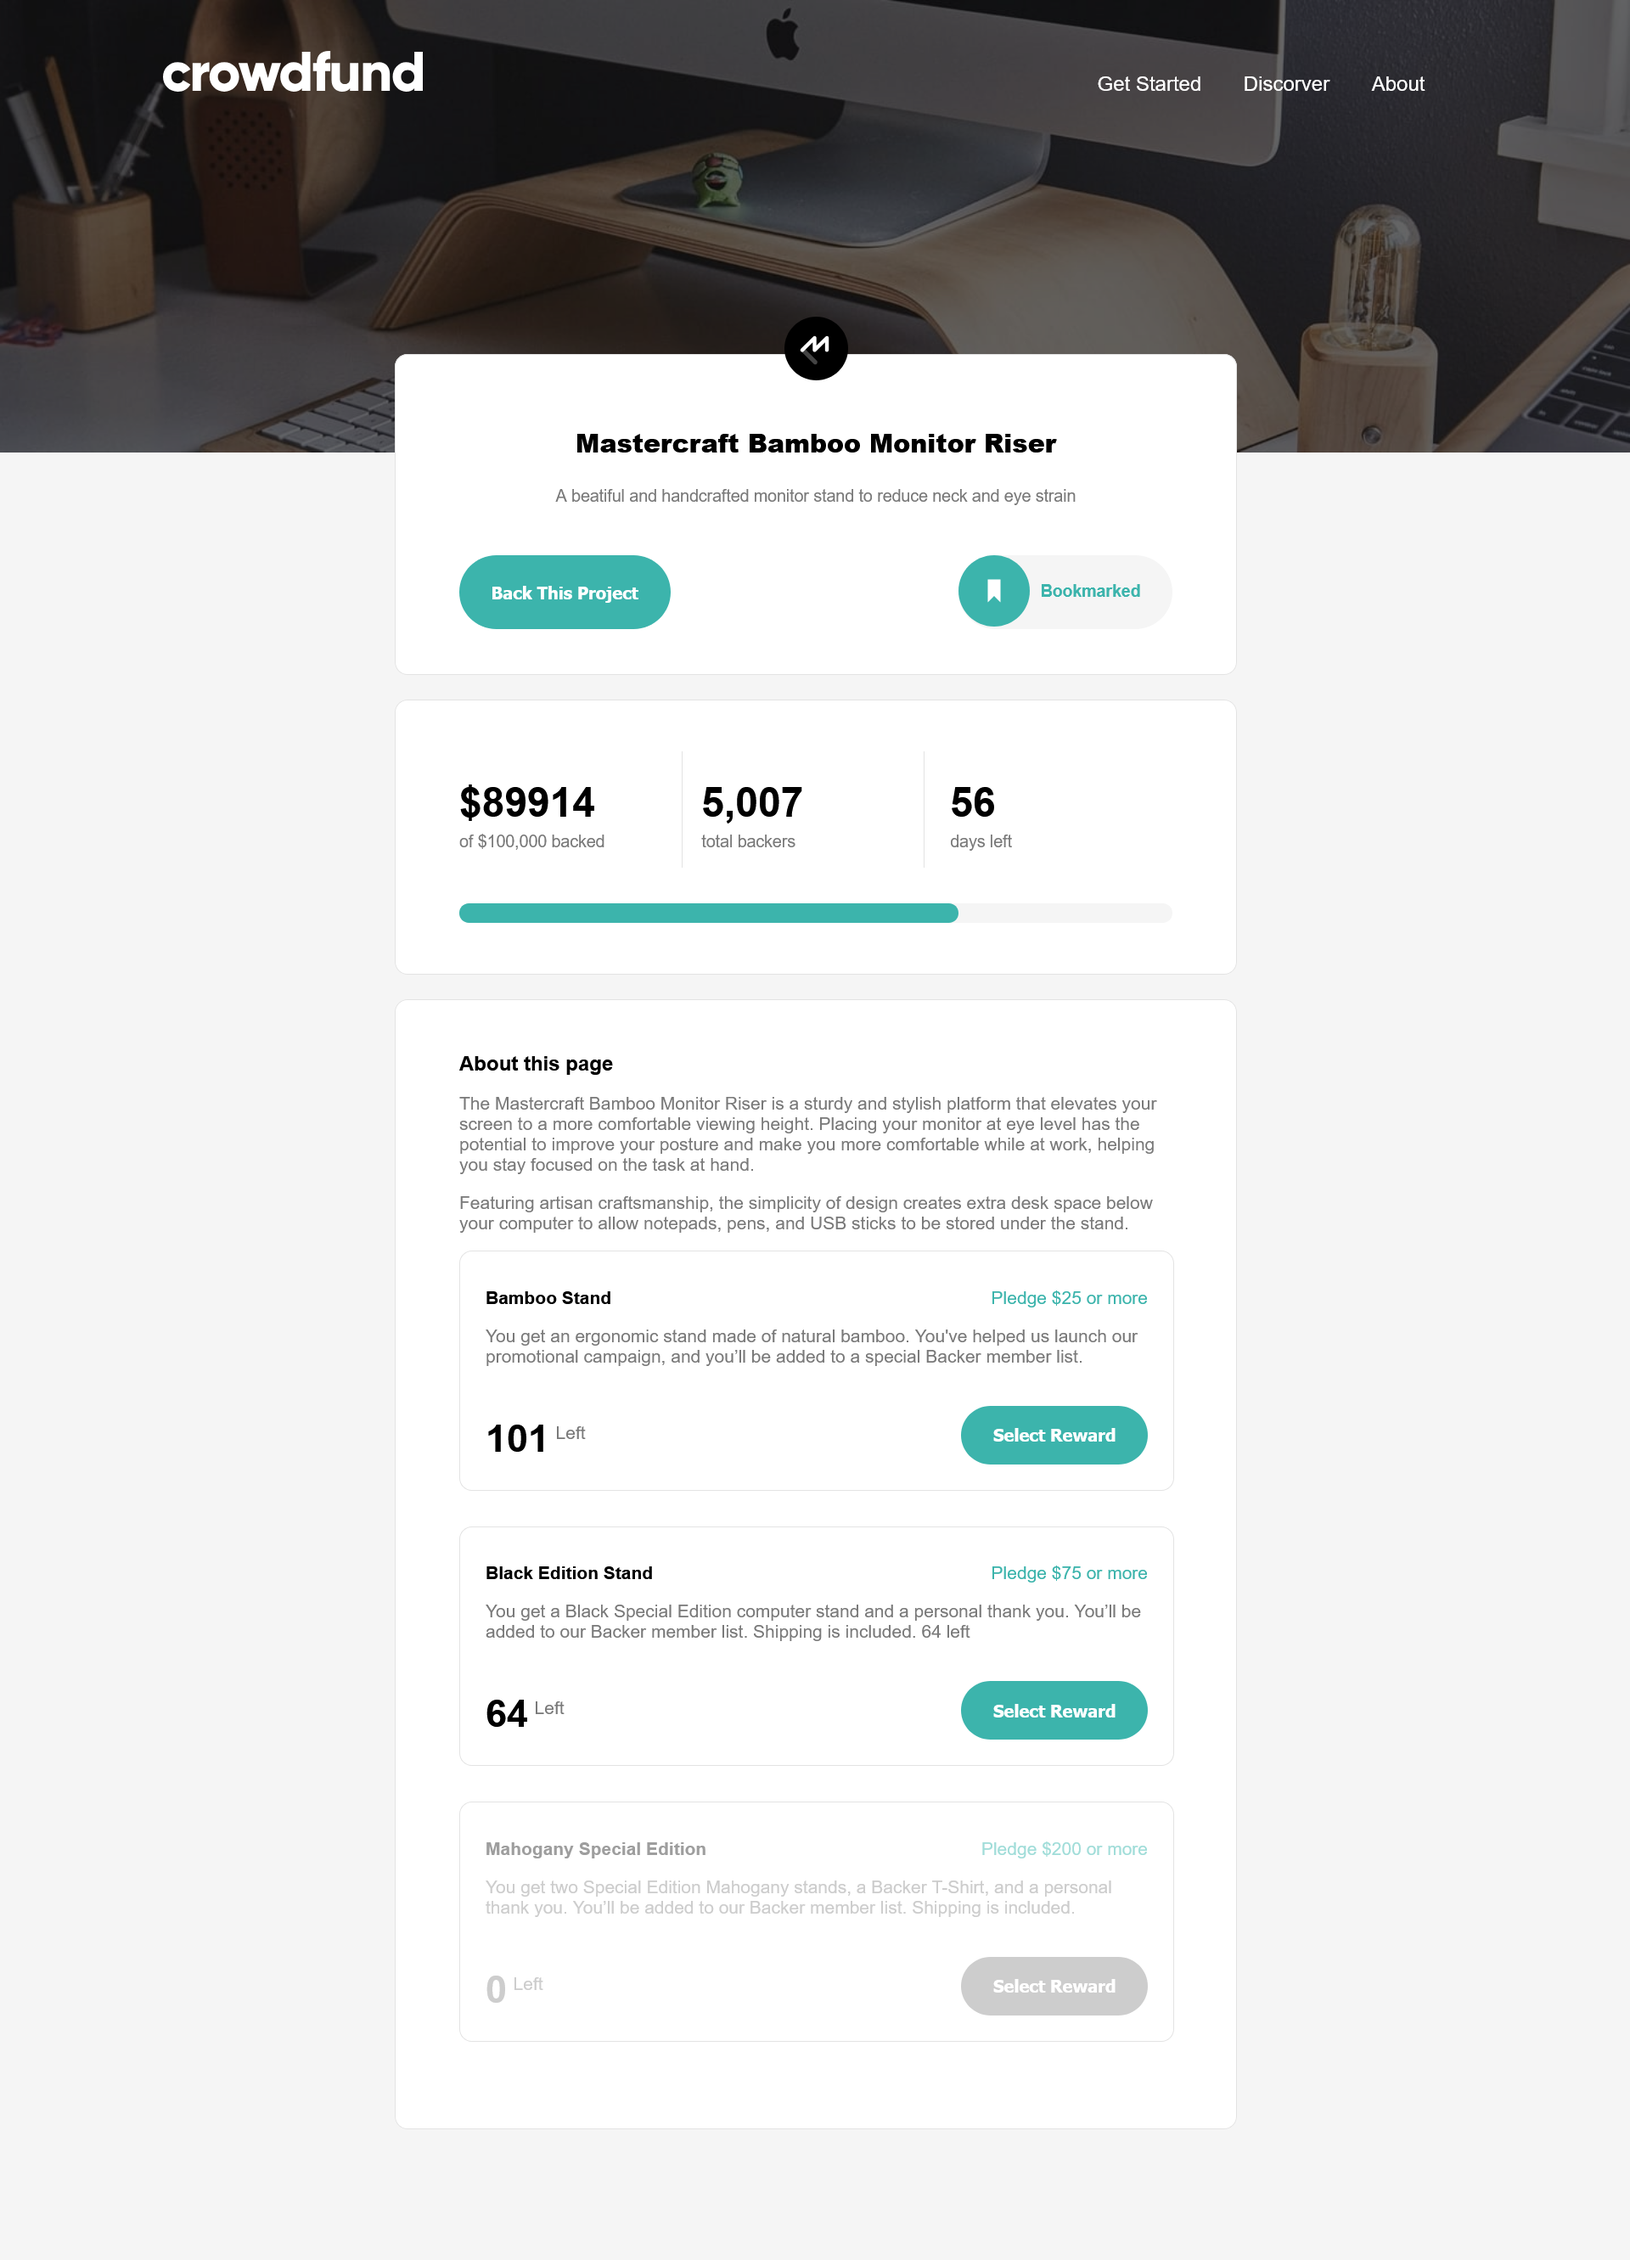
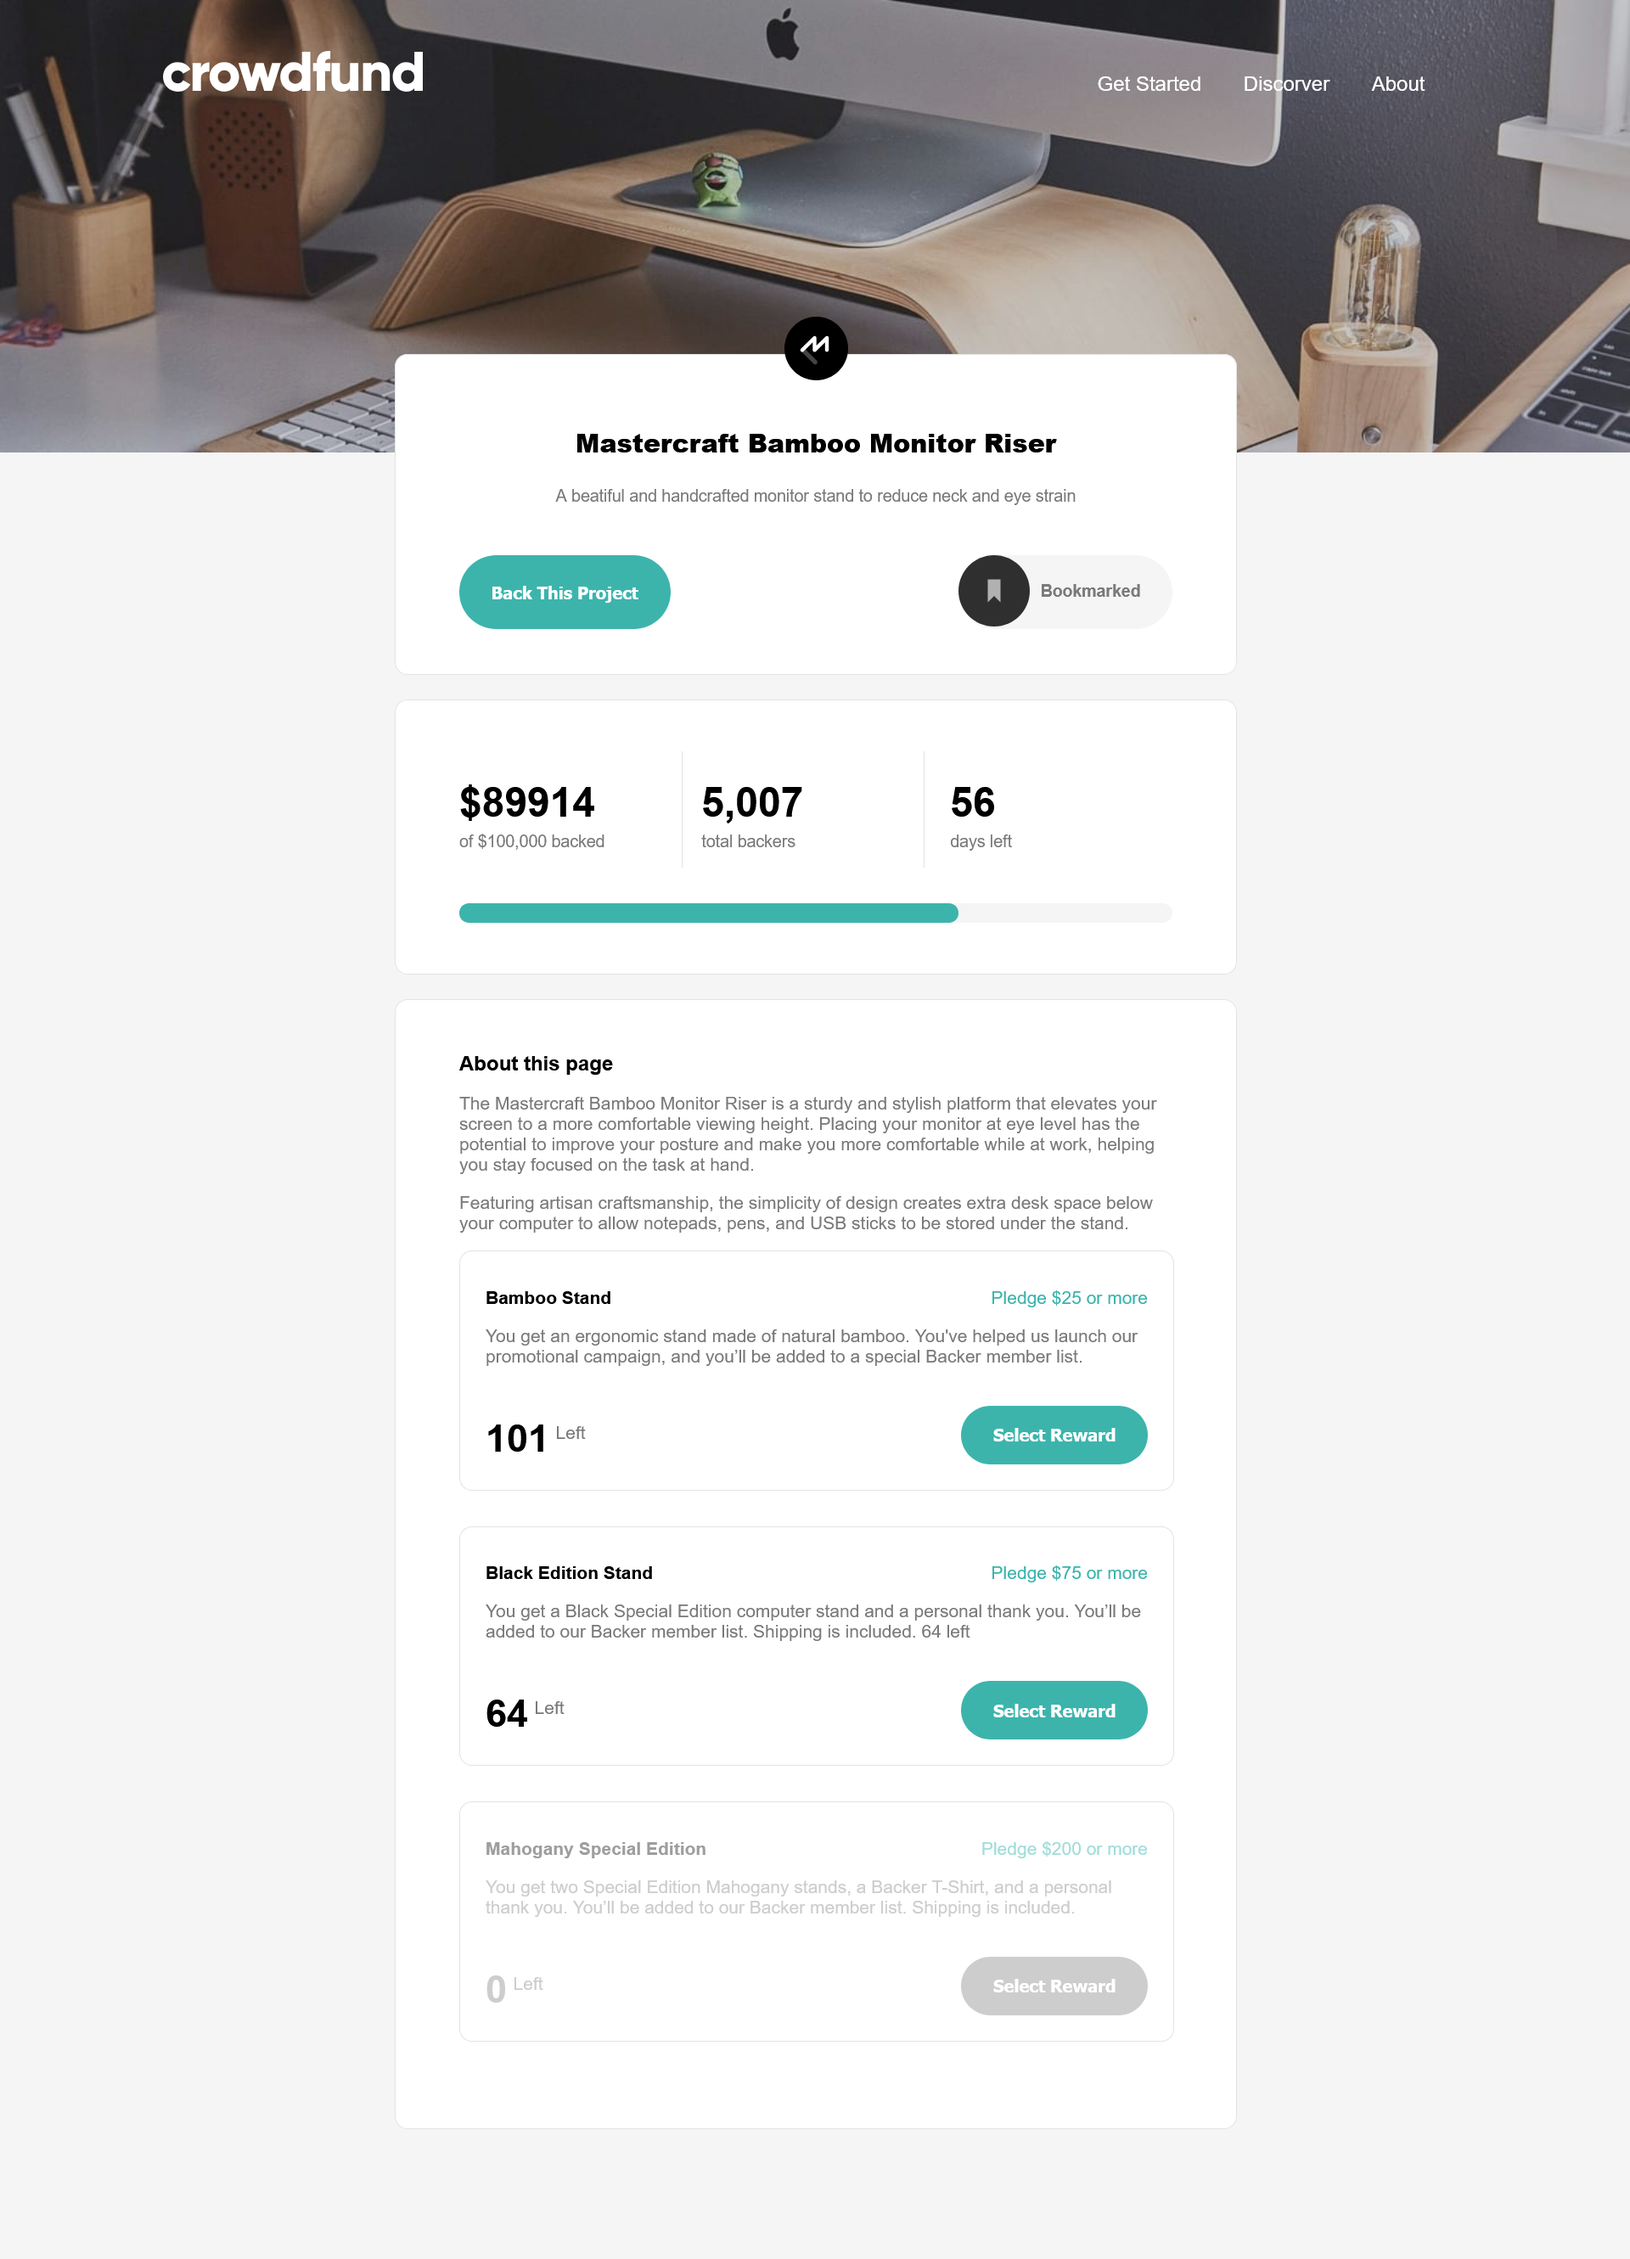
Final commit

Changed region(s): [[0.0, 0.0, 1.0, 0.2183], [0.5938, 0.2495, 0.6875, 0.2807], [0.3438, 0.4679, 0.375, 0.4991]]

diff --git a/Asset/main.js b/Asset/main.js
@@ -41,34 +41,57 @@ const navbarBtn = document.getElementById("navbar-drop");
 const navItems = document.getElementById("navitems");
 const hambugerModal = document.getElementById("hambuger-modal");
 const hambugerClose = document.getElementById("hambuger-close");
+const navModal = document.getElementById("transparent-older");
+const link = document.querySelectorAll("#link");
 
 hambugerClose.classList.add("svg-hamgurger-hide");
 navItems.classList.add("close-nav");
+navModal.classList.add("close-nav-modal");
 
 navbarBtn.addEventListener("click", function () {
   navItems.classList.toggle("display-block");
   navItems.classList.toggle("close-nav");
+  navModal.classList.toggle("close-nav-modal");
   hambugerClose.classList.toggle("svg-hamgurger-hide");
   hambugerModal.classList.toggle("svg-hamgurger-hide");
 });
 
-// navbar ends-------------------------
+// re-do navbar
+link.forEach((linkItems) => {
+  linkItems.addEventListener("click", function () {
+    navbarBtn.click();
+  });
+});
 
-// Modal comfirm checkbox
+// navbar ends -------------------------
+
+const checkbox = document.querySelector("input[type='checkbox']");
 const wrapper = document.querySelectorAll(".container-reward");
 
-wrapper.forEach((wrappercontainer) => {
-  wrappercontainer.addEventListener("click", () => {
-    const btnUnderModal = wrappercontainer.querySelector(".btn--under-modal");
+wrapper.forEach((wrapperContainer) => {
+  wrapperContainer.addEventListener("click", function () {
+    const btnUnderModal = wrapperContainer.querySelector(".btn--under-modal");
 
-    const checkbox = wrappercontainer.querySelector("input[type='checkbox']");
+    document.querySelectorAll(".btn--under-modal").forEach((otherDivs) => {
+      if (otherDivs != btnUnderModal) {
+        otherDivs.style.display = "none";
+      }
+    });
+
+    document.querySelectorAll(".container-reward").forEach((othercontainer) => {
+      if (othercontainer != wrapperContainer) {
+        othercontainer.style.border = "";
+      }
+    });
+
+    const checkbox = wrapperContainer.querySelector("input[type='checkbox']");
     checkbox.checked = !checkbox.checked;
 
     if (checkbox.checked) {
       btnUnderModal.style.display = "flex";
-      wrappercontainer.style.border = "1.4px solid hsl(176, 50%, 47%)";
+      wrapperContainer.style.border = "1.4px solid hsl(176, 50%, 47%)";
     } else {
-      wrappercontainer.style.border = "";
+      wrapperContainer.style.border = "";
       btnUnderModal.style.display = "none";
     }
   });

diff --git a/index.html b/index.html
@@ -22,7 +22,7 @@
             class="mobile-img"
           />
 
-          <div class="container-transparent-nav-holder">
+          <div class="container-transparent-nav-holder" id="transparent-older">
             <div class="holer-">
               <div class="container-logo">
                 <img src="./Asset/images/logo.svg" alt="" />
@@ -62,9 +62,9 @@
 
               <div class="container-list-items" id="navitems">
                 <ul>
-                  <li><a href="#about">About</a></li>
-                  <li><a href="#">Discorver</a></li>
-                  <li><a href="#" id="back-project">Get Started</a></li>
+                  <li><a href="#about" id="link">About</a></li>
+                  <li><a href="#" id="link">Discorver</a></li>
+                  <li><a href="#" id="link">Get Started</a></li>
                 </ul>
               </div>
             </div>
@@ -103,14 +103,15 @@
                             >
                               <g fill="none" fill-rule="evenodd">
                                 <circle
-                                  fill="hsl(176, 50%, 47%)"
+                                  fill="#2F2F2F"
+                                  class="bookmark"
                                   cx="28"
                                   cy="28"
                                   r="28"
-                                  class="svg"
                                 />
                                 <path
-                                  fill="white"
+                                  fill="#B1B1B1"
+                                  class="bookmark-path"
                                   d="M23 19v18l5-5.058L33 37V19z"
                                 />
                               </g>

diff --git a/Asset/styles.css b/Asset/styles.css
@@ -61,7 +61,7 @@ body {
   .container-transparent-nav-holder {
   width: 100%;
   position: absolute;
-  background-color: hsla(0, 0%, 0%, 0.6);
+  background-color: hsla(0, 0%, 0%, 0.2);
   height: 100%;
   top: 0;
 }
@@ -266,11 +266,46 @@ body {
   .container-buttons-
   .container-icon-bookmark
   p {
-  color: var(--Moderate-cyan);
   float: right;
   margin-top: 20px;
   margin-left: 8px;
   font-weight: 700;
+}
+
+.container-items-main
+  .container-holder
+  .body-items
+  .header-items
+  .container-holder
+  .container-buttons-
+  .container-icon-bookmark
+  .container-wrapper:hover
+  p {
+  color: var(--Moderate-cyan);
+}
+
+.container-items-main
+  .container-holder
+  .body-items
+  .header-items
+  .container-holder
+  .container-buttons-
+  .container-icon-bookmark
+  .container-wrapper:hover
+  .bookmark {
+  fill: var(--Moderate-cyan);
+}
+
+.container-items-main
+  .container-holder
+  .body-items
+  .header-items
+  .container-holder
+  .container-buttons-
+  .container-icon-bookmark
+  .container-wrapper:hover
+  .bookmark-path {
+  fill: var(--white);
 }
 
 .container-items-main .container-holder .body-items .container-main {
@@ -1195,6 +1230,23 @@ body {
     padding: 40px 5%;
     display: block;
     justify-content: none;
+  }
+
+  .close-nav-modal {
+    background-color: transparent !important;
+    height: 100% !important;
+  }
+
+  .container-crowfund-product
+    .container-crowdfund-project-wrapper
+    .top-img
+    .container-transparent-nav-holder {
+    width: 100vw;
+    position: absolute;
+    z-index: 5555;
+    background-color: hsla(0, 0%, 0%, 0.4);
+    height: 310vh;
+    top: 0;
   }
 
   .svg-hamgurger {

diff --git a/README.md b/README.md
@@ -61,6 +61,9 @@ mobile view with navbar
 ![](./Asset/images/screenshot/mobile-success-modal.png)
 mobile success modal view
 
+![](./Asset/images/screenshot/mobile-menu.png)
+mobile success modal view
+
 Mastercraft Bamboo Monitor Riser
 A beautiful & handcrafted monitor stand to reduce neck and eye strain.
 
